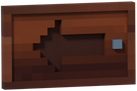
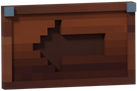
wardrobe: doors swung wider so the page plaques face the player; bolts in the plaques' top corners; both always shown, pages wrap

Changed region(s): [[0.8175, 0.4176, 0.9343, 0.5934], [0.0292, 0.0659, 0.146, 0.2637], [0.9051, 0.022, 1.0, 0.1758]]

diff --git a/dev/tools/render-wardrobe.py b/dev/tools/render-wardrobe.py
@@ -1,6 +1,6 @@
 # Renders the in-game wardrobe screen's art (mod 1.4.0) from the game's own Lumberjack wardrobe model, doors swung open, in Blender
 # with soft light on a transparent background: the wardrobe with a second rack, the coat hanger a skin hangs on, and the page
-# plaques (an arrow carved into a board of the wardrobe's own planks, held by one iron nail; lighter while the pointer is on them).
+# plaques (an arrow carved into a board of the wardrobe's own planks, held by an iron bolt in each top corner; lighter while the pointer is on them).
 # Writes name@2x.png into the mod's UI folder and prints the layout (UI units) that Wardrobe.ui / WardrobeCard.ui are built on.
 # python dev/tools/render-wardrobe.py [--blender <blender.exe>] [--assets <Assets.zip>]
 import json, os, subprocess, sys, tempfile, zipfile
@@ -96,8 +96,8 @@ for sx in (-1, 1):
 him, hm = render('Hanger', no_model=True, extra=hook, marks={'c': [[0, RAIL_TOP + 0.6, FACE_Z]]})
 
 def plaque(name, door, sign, key, same=None):
-    # a plank board nailed to the inside of a door (swung open as in the art, so it takes the door's angle), with an arrow carved
-    # into it (pointing right, or left when sign is -1) and an iron nail at the arrow's tail; rendered alone with the art's camera
+    # a plank board bolted to the inside of a door (swung open as in the art, so it takes the door's angle), with an arrow carved
+    # into it (pointing right, or left when sign is -1) and an iron bolt in each top corner; rendered alone with the art's camera
     W, H, D, CUT, RIM = 18, 11, 1.2, 0.8, 0.4
     head = {10: (2, 8), 11: (3, 7), 12: (4, 6), 13: (5, 5)}
     kind = lambda x, y: ('rim' if x in (0, W - 1) or y in (0, H - 1) else
@@ -116,8 +116,9 @@ def plaque(name, door, sign, key, same=None):
             ex.append({'position': [(x + n / 2 - W / 2) * sign * K, (H / 2 - y - 0.5) * K, front / 2 * K], 'size': [n * K, K, front * K], 'attach': at,
                        'uv': {f: [u, v] for f in ('front', 'top', 'bottom', 'left', 'right')}})
             x = x1 + 1
-    ex.append({'position': [(2.5 - W / 2) * sign * K, 0, (D + 0.3) * K], 'size': [1.2 * K, 1.2 * K, 0.6 * K], 'attach': at,
-               'uv': {'front': [57, 109], 'top': [51, 109], 'bottom': [51, 109], 'left': [51, 114], 'right': [51, 114]}})
+    for cx in (0.6, W - 0.6):                                         # an iron bolt in each top corner of the frame
+        ex.append({'position': [(cx - W / 2) * K, (H / 2 - 0.6) * K, (D + RIM + 0.25) * K], 'size': [1.2 * K, 1.2 * K, 0.5 * K], 'attach': at,
+                   'uv': {'front': [57, 109], 'top': [51, 109], 'bottom': [51, 109], 'left': [51, 114], 'right': [51, 114]}})
     return render(name, crop=ART_BOX, same=same, no_model=True, extra=ex, lights={'key': key, 'fill': 0.6, 'rim': 1.0}, marks={})
 PLAQUE_Y = IN_TOP - 300 / (402 / (IN_TOP - IN_BOT))                  # level with the middle of the bottom rack
 plaques = {}
